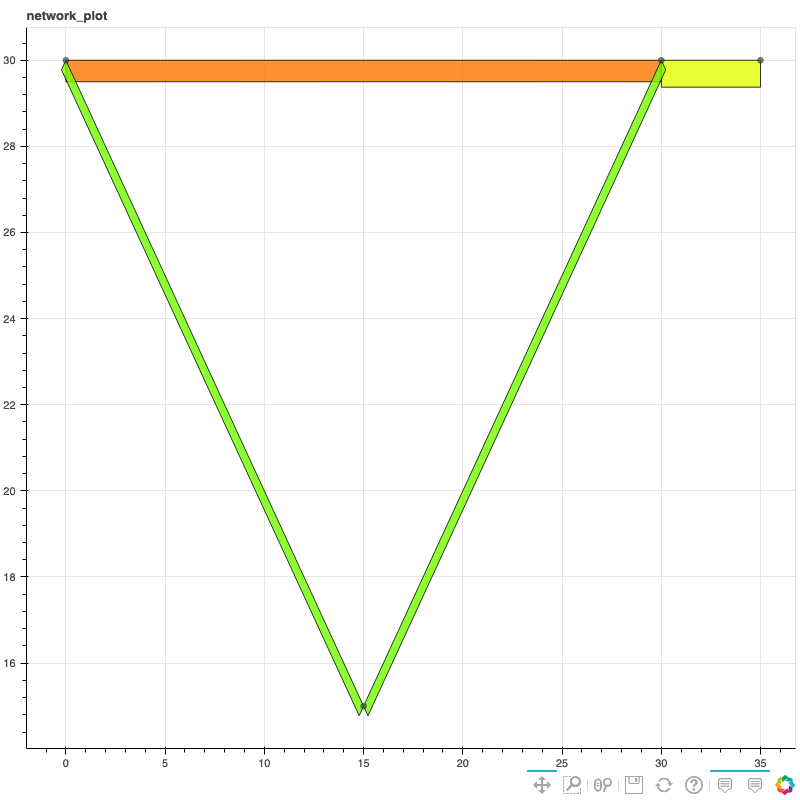
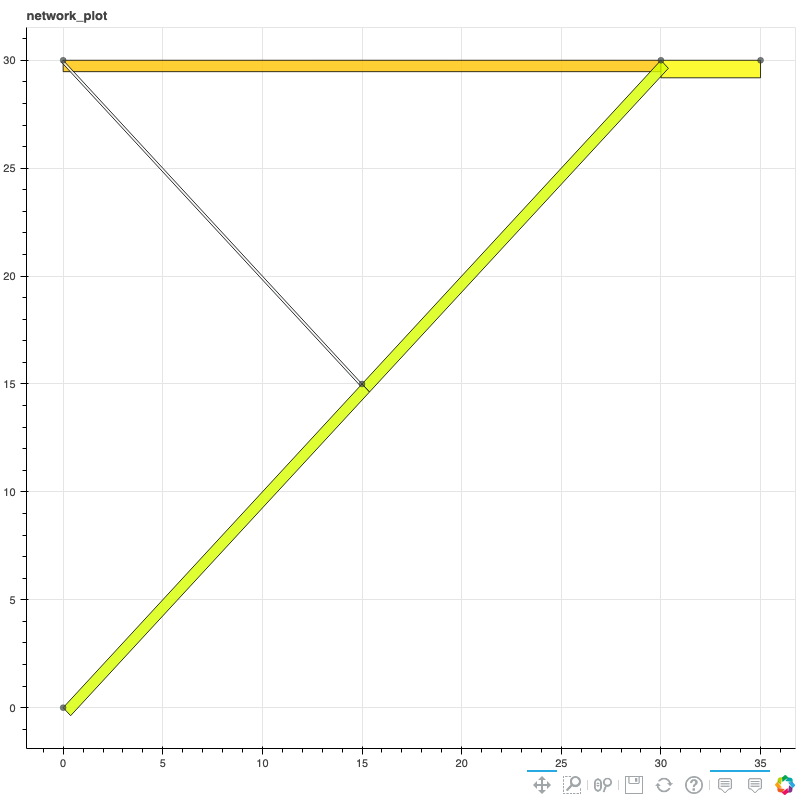
Started conversion to more complex networks
Part 1: Using centroids for OD matrices, code needs to be adapted

diff --git a/ownCode/ownFunctions.py b/ownCode/ownFunctions.py
@@ -1,8 +1,8 @@
 import networkx as nx
 import numpy as np
 
-from dyntapy import relabel_graph
-from dyntapy.demand_data import od_graph_from_matrix
+from dyntapy import relabel_graph, show_network
+from dyntapy.demand_data import od_graph_from_matrix, add_connectors, add_centroids
 from osmnx.distance import euclidean_dist_vec
 
 #building our own two rout DiGraph route (using nodes)
@@ -83,23 +83,27 @@ def makeOwnToyNetwork(form):
         set_network_attributes(g, bottle_neck_edges, bottle_neck_capacity_speed)
 
     
-        ODcentroids = np.array([np.array([10,25,35,35,55,55,65,80,75,15,30,60,75]), np.array([35,35,50,20,50,20,35,35,0,0,15,40,45])])
+        ODcentroids = np.array([np.array([10,30,80]), np.array([35,15,35])])
+        g = add_centroids(g, ODcentroids[0], ODcentroids[1], euclidean = True, method = 'turn')
         g = relabel_graph(g)  # adding link and node ids, connectors and centroids
         odCsvFile = 'ODmatrixComplex.csv'
         return g, ODcentroids, odCsvFile
-    elif form == 'simple':
+    elif form == 'merge_two_route':
         g = nx.DiGraph()
         ebunch_of_nodes = [
             (0, {"x_coord": 0, "y_coord": 30}),
             (1, {"x_coord": 30, "y_coord": 30}),
             (2, {"x_coord": 15, "y_coord": 15}),
             (3, {"x_coord": 35, "y_coord": 30}),
+            (4, {"x_coord": 0, "y_coord": 0}),
+            
             
         ]
 
         nodes_signalized = [
             0,
             1,
+            0,
             0,
             0,
         ]
@@ -109,6 +113,7 @@ def makeOwnToyNetwork(form):
             0,
             0,
             0,
+            1,
         ]
         g.add_nodes_from(ebunch_of_nodes)
 
@@ -117,6 +122,9 @@ def makeOwnToyNetwork(form):
             (0, 2),
             (2, 1),
             (1, 3),
+            (4, 2),
+            (3,0),
+            
             
         ]
 
@@ -125,6 +133,7 @@ def makeOwnToyNetwork(form):
             (0, 2),
             (2, 1),
             (1, 3),
+            (4, 2),
             
         ]
 
@@ -133,6 +142,7 @@ def makeOwnToyNetwork(form):
             (150, 80),
             (150, 80),
             (250, 80),
+            (150, 80),
             
         ]
 
@@ -141,12 +151,88 @@ def makeOwnToyNetwork(form):
             0,
             1,
             0,
+            0,
         ]
 
         g.add_edges_from(ebunch_of_edges)
         set_network_attributes(g, bottle_neck_edges, bottle_neck_capacity_speed, is_signalized, nodes_signalized, is_origin)
 
-        ODcentroids = np.array([np.array([0,30,20,35]), np.array([30,30,15,30])])
+        ODcentroids = np.array([np.array([0,0,35]), np.array([30,0,30])])
+        g = add_centroids(g, ODcentroids[0], ODcentroids[1], euclidean=True, method='turn')
+
+        g,dic = relabel_graph(g, return_inverse=True)  # adding link and node ids
+        print(dic)
+        odCsvFile = 'ODmatrixMerge.csv'
+        return g, ODcentroids, odCsvFile
+    elif form == 'simple':
+        g = nx.DiGraph()
+        ebunch_of_nodes = [
+            (0, {"x_coord": 0, "y_coord": 30}),
+            (1, {"x_coord": 30, "y_coord": 30}),
+            (2, {"x_coord": 15, "y_coord": 15}),
+            (3, {"x_coord": 35, "y_coord": 30}),
+            (4, {"x_coord": 0, "y_coord": 0}),
+            
+            
+        ]
+
+        nodes_signalized = [
+            0,
+            1,
+            0,
+            0,
+            0,
+        ]
+
+        is_origin  = [
+            1,
+            0,
+            0,
+            0,
+            1,
+        ]
+        g.add_nodes_from(ebunch_of_nodes)
+
+        ebunch_of_edges = [
+            (0, 1),
+            (0, 2),
+            (2, 1),
+            (1, 3),
+            (4, 2),
+            
+            
+        ]
+
+        bottle_neck_edges = [
+            (0, 1),
+            (0, 2),
+            (2, 1),
+            (1, 3),
+            (4, 2),
+            
+        ]
+
+        bottle_neck_capacity_speed =   [
+            (100, 80),
+            (150, 80),
+            (150, 80),
+            (250, 80),
+            (150, 80),
+            
+        ]
+
+        is_signalized = [
+            1,
+            0,
+            1,
+            0,
+            0,
+        ]
+
+        g.add_edges_from(ebunch_of_edges)
+        set_network_attributes(g, bottle_neck_edges, bottle_neck_capacity_speed, is_signalized, nodes_signalized, is_origin)
+
+        ODcentroids = np.array([np.array([0,30,20,35,0]), np.array([30,30,15,30,0])])
         g = relabel_graph(g)  # adding link and node ids, connectors and centroids
         odCsvFile = 'ODmatrixSimple.csv'
         return g, ODcentroids, odCsvFile
@@ -191,12 +277,14 @@ def set_network_attributes(g, bottleneck_edges, bottle_neck_capacity_speed, is_s
             data["signalized"] = is_signalized[index]
         
 
+
 #function to load the OD matrix in from .cvs file to numpy array 
 def getODGraph(ODMatrix, ODcentroids):
     xOD = ODcentroids[0]
     yOD = ODcentroids[1]
     matrix = np.genfromtxt(ODMatrix, delimiter=',')
-    return od_graph_from_matrix(matrix, X=xOD, Y=yOD)
+    g = od_graph_from_matrix(matrix, X=xOD, Y=yOD)
+    return g
 
 #function to find which nodes are intersection nodes so the links before these nodes have a different cost
 #function (including the green times)

diff --git a/ownCode/main.py b/ownCode/main.py
@@ -17,12 +17,12 @@ from bokeh.io import export_png
 
 #main function where we merge everything together
 def main():
-    demands = [105]
+    demands = [115]
     for demand_i in demands:
             #two cost functions at the moment
             # 'bpr' to use the bpr cost function
             # 'WebsterTwoTerm' to use the webster two term delay cost function
-        methodCost = 'WebsterTwoTerm'
+        methodCost = 'bpr'
 
             #two green time policies
             # 'equisaturation' 
@@ -33,11 +33,11 @@ def main():
 
         #setup
         print("STARTING SETUP")
-        g, ODcentroids, odFile = makeOwnToyNetwork('simple')
+        g, ODcentroids, odFile = makeOwnToyNetwork('merge_two_route')
         matrix = np.zeros([4,4])
         matrix[0,3] = demand_i
         ODMatrix_location = str(pathlib.Path(__file__).parent)+'/data/'+str(odFile)
-        np.savetxt(ODMatrix_location, matrix, delimiter=",")
+        #np.savetxt(ODMatrix_location, matrix, delimiter=",")
         
         ODMatrix = np.genfromtxt(ODMatrix_location, delimiter=',')
         odGraph = getODGraph(ODMatrix_location, ODcentroids)
@@ -51,7 +51,7 @@ def main():
 
         #starting with 0.5 at every two link node
             #hardCoded for simple
-        firstGreen = {0: 0.5, 1: 1, 2: 1, 3: 0.5}
+        firstGreen = {0: 0.1, 1: 1, 2: 1, 3: 0.9}
             #hardCoded for complex 
         #firstGreen = {0: 1, 1: 1, 2: 0.5, 3: 1, 4: 1, 5: 1, 6: 1, 7: 0.5, 8: 0.5, 9: 1, 10: 1, 11: 1, 12: 0.5, 13: 0.5, 14: 1, 15: 0.5}
         summary_string += "initial greens: link 0 = {},   link 3 = {}\n".format(firstGreen[0], firstGreen[3])

diff --git a/ownCode/test.py b/ownCode/test.py
@@ -1,4 +1,14 @@
-list = [1,2,3,4,5,6]
+from ownFunctions import makeOwnToyNetwork, getODGraph
+from dyntapy import show_network, relabel_graph
+from dyntapy.assignments import StaticAssignment
+import pathlib
+
+g, centroids, od_location = makeOwnToyNetwork('complex')
+show_network(g, euclidean = True)
+ODMatrix_location = str(pathlib.Path(__file__).parent)+'/data/'+str(od_location)
+od_graph = getODGraph(ODMatrix_location,centroids)
 
 
-print(list[-3:])
+assignment = StaticAssignment(g, od_graph)
+results = assignment.run('msa')
+show_network(g, flows = results.flows,  euclidean = True)

diff --git a/ownCode/greenTimes.py b/ownCode/greenTimes.py
@@ -114,6 +114,8 @@ def safety_greens(greens):
             newGreens[idx] -= div
     #check if after adjustment all values are still larger than 0.01        
     safety_greens(newGreens)
+
+    
 #in here we will calculate the green times according to different policies
 #These will be used in the cost function of the static assignment
 def equisaturationGreenTimes(caps, flows, initial_greens, ff_tts, method):
